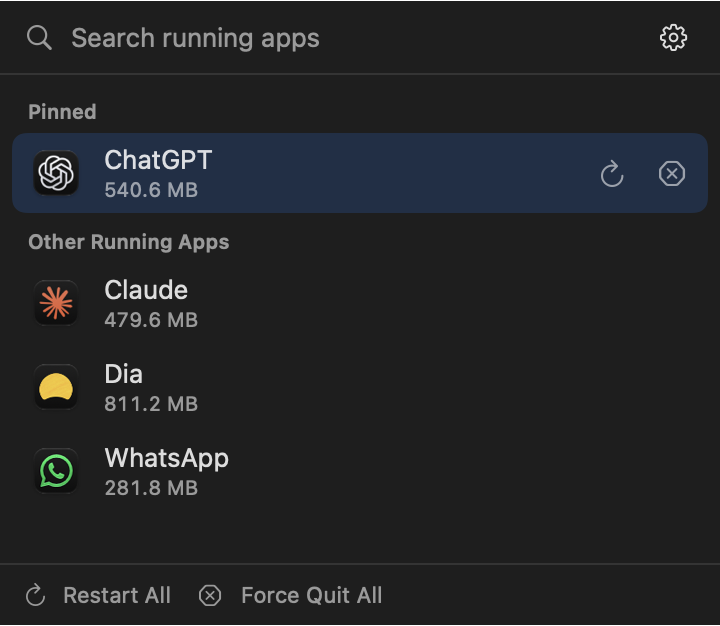
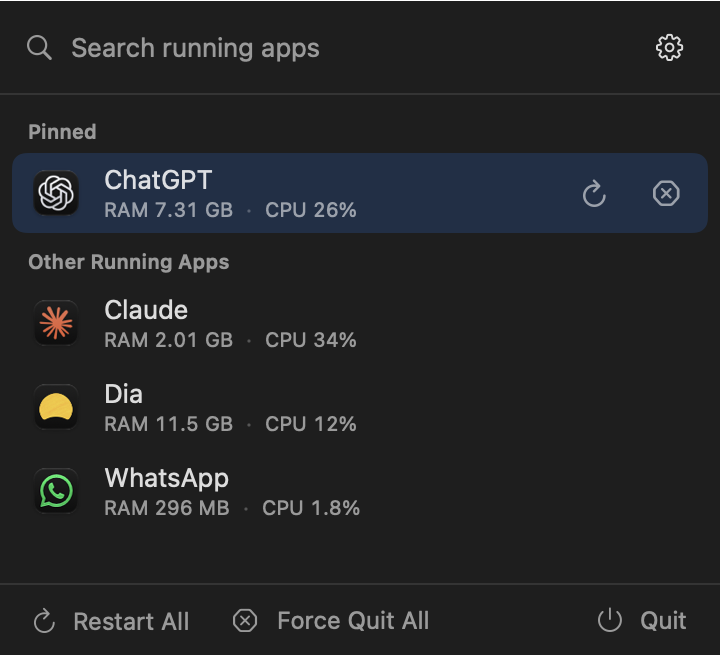
2.1: clearer RAM/CPU, hover effects, Quit button, stable signing
- Rows show 'RAM x · CPU y%' (Activity Monitor's measures), counting the
  app's in-bundle helper processes but not tools it launches
- Hover and press effects on all icon and footer buttons
- Quit button at the right end of the panel footer
- Accessibility permission rechecks live; banner can open Settings or
  relaunch the app
- Sign with a stable self-signed identity so the Accessibility grant
  survives updates; sign and verify off the Desktop, zip from a clean copy

diff --git a/Views.swift b/Views.swift
@@ -33,8 +33,7 @@ struct PanelView: View {
                 .accessibilityLabel("Search running apps")
             if !model.query.isEmpty {
                 Button { model.query = "" } label: { Image(systemName: "xmark.circle.fill") }
-                    .buttonStyle(.borderless)
-                    .foregroundStyle(.secondary)
+                    .buttonStyle(HoverIconStyle(tint: .primary))
                     .help("Clear search")
                     .accessibilityLabel("Clear search")
             }
@@ -50,6 +49,7 @@ struct PanelView: View {
             .menuStyle(.borderlessButton)
             .menuIndicator(.hidden)
             .fixedSize()
+            .modifier(HoverCircle(tint: .primary))
             .help("Settings, updates and more")
             .accessibilityLabel("More options")
         }
@@ -94,18 +94,22 @@ struct PanelView: View {
     }
 
     private func footer(_ items: [AppItem]) -> some View {
-        HStack(spacing: 12) {
+        HStack(spacing: 4) {
             Button { model.perform(.restart, on: items) } label: { Label("Restart All", systemImage: "arrow.clockwise") }
+                .buttonStyle(HoverPillStyle(tint: .accentColor))
                 .help("Restart every app in the list")
+                .disabled(items.isEmpty)
             Button { model.perform(.forceQuit, on: items) } label: { Label("Force Quit All", systemImage: "xmark.octagon") }
+                .buttonStyle(HoverPillStyle(tint: .red))
                 .help("Force quit every app in the list")
+                .disabled(items.isEmpty)
             Spacer()
+            Button { NSApp.terminate(nil) } label: { Label("Quit", systemImage: "power") }
+                .buttonStyle(HoverPillStyle(tint: .primary))
+                .help("Quit AppRestarter (⌘Q)")
         }
-        .buttonStyle(.borderless)
-        .controlSize(.small)
-        .disabled(items.isEmpty)
-        .padding(.horizontal, 12)
-        .padding(.vertical, 8)
+        .padding(.horizontal, 8)
+        .padding(.vertical, 6)
     }
 }
 
@@ -147,12 +151,7 @@ private struct AppRow: View {
                             .help("Restarts automatically when frozen")
                     }
                 }
-                if model.showMemory, item.memory > 0 {
-                    Text(formatBytes(item.memory))
-                        .font(.caption)
-                        .foregroundStyle(.secondary)
-                        .monospacedDigit()
-                }
+                if model.showMemory, item.memory > 0 { usage }
             }
             Spacer(minLength: 4)
             if item.frozen {
@@ -166,8 +165,8 @@ private struct AppRow: View {
             if busy {
                 ProgressView().controlSize(.small)
             } else if hovering || selected {
-                RowButton(symbol: "arrow.clockwise", label: "Restart") { model.perform(.restart, on: [item]) }
-                RowButton(symbol: "xmark.octagon", label: "Force Quit") { model.perform(.forceQuit, on: [item]) }
+                RowButton(symbol: "arrow.clockwise", label: "Restart", tint: .accentColor) { model.perform(.restart, on: [item]) }
+                RowButton(symbol: "xmark.octagon", label: "Force Quit", tint: .red) { model.perform(.forceQuit, on: [item]) }
             } else if isPinned {
                 Image(systemName: "pin.fill").font(.caption).foregroundStyle(.secondary)
             }
@@ -207,9 +206,27 @@ private struct AppRow: View {
         .accessibilityAction(named: "Exclude from List") { model.excluded.insert(item.bundleID) }
     }
 
+    /// "RAM 515 MB · CPU 2.3%". CPU turns orange above one full core.
+    private var usage: some View {
+        HStack(spacing: 6) {
+            Text("RAM \(formatBytes(item.memory))")
+            if let cpu = item.cpu {
+                Text("·").foregroundStyle(.tertiary)
+                Text("CPU \(formatCPU(cpu))").foregroundStyle(cpu >= 100 ? Color.orange : Color.secondary)
+            }
+        }
+        .font(.caption)
+        .foregroundStyle(.secondary)
+        .monospacedDigit()
+        .help("RAM: memory used by the app and its helper processes.\nCPU: processor use, where 100% is one full core (same as Activity Monitor).")
+    }
+
     private var accessibilityText: String {
         var parts = [item.name]
-        if model.showMemory, item.memory > 0 { parts.append(formatBytes(item.memory)) }
+        if model.showMemory, item.memory > 0 {
+            parts.append("RAM \(formatBytes(item.memory))")
+            if let cpu = item.cpu { parts.append("CPU \(formatCPU(cpu))") }
+        }
         if item.frozen { parts.append("Not responding") }
         if isPinned { parts.append("Pinned") }
         if busy { parts.append("Working") }
@@ -220,12 +237,74 @@ private struct AppRow: View {
 private struct RowButton: View {
     let symbol: String
     let label: String
+    let tint: Color
     let action: () -> Void
     var body: some View {
-        Button(action: action) { Image(systemName: symbol).frame(width: 20, height: 20) }
-            .buttonStyle(.borderless)
+        Button(action: action) { Image(systemName: symbol) }
+            .buttonStyle(HoverIconStyle(tint: tint))
             .help(label)
             .accessibilityLabel(label)
+    }
+}
+
+// MARK: - Hover styles
+
+/// Round icon button: grey at rest; tinted icon on a soft circle when hovered; shrinks when pressed.
+struct HoverIconStyle: ButtonStyle {
+    var tint: Color
+    func makeBody(configuration: Configuration) -> some View {
+        configuration.label
+            .font(.system(size: 13, weight: .medium))
+            .modifier(HoverCircle(tint: tint, pressed: configuration.isPressed))
+    }
+}
+
+struct HoverCircle: ViewModifier {
+    var tint: Color
+    var pressed = false
+    @State private var hovering = false
+    @Environment(\.isEnabled) private var enabled
+
+    func body(content: Content) -> some View {
+        let active = hovering && enabled
+        content
+            .foregroundStyle(active ? tint : Color.secondary)
+            .frame(width: 26, height: 26)
+            .background(Circle().fill(tint.opacity(active ? (pressed ? 0.28 : 0.14) : 0)))
+            .scaleEffect(pressed ? 0.88 : 1)
+            .contentShape(Circle())
+            .onHover { hovering = $0 }
+            .animation(.easeOut(duration: 0.12), value: active)
+            .animation(.easeOut(duration: 0.08), value: pressed)
+    }
+}
+
+/// Text + icon footer button: tinted capsule on hover.
+struct HoverPillStyle: ButtonStyle {
+    var tint: Color
+    func makeBody(configuration: Configuration) -> some View {
+        Pill(configuration: configuration, tint: tint)
+    }
+
+    private struct Pill: View {
+        let configuration: Configuration
+        let tint: Color
+        @State private var hovering = false
+        @Environment(\.isEnabled) private var enabled
+
+        var body: some View {
+            let active = hovering && enabled
+            configuration.label
+                .font(.callout)
+                .foregroundStyle(active ? tint : enabled ? Color.secondary : Color.secondary.opacity(0.5))
+                .padding(.horizontal, 8)
+                .padding(.vertical, 4)
+                .background(Capsule().fill(tint.opacity(active ? (configuration.isPressed ? 0.25 : 0.12) : 0)))
+                .scaleEffect(configuration.isPressed ? 0.96 : 1)
+                .contentShape(Capsule())
+                .onHover { hovering = $0 }
+                .animation(.easeOut(duration: 0.12), value: active)
+        }
     }
 }
 
@@ -272,7 +351,7 @@ struct GeneralTab: View {
             Section {
                 Toggle("Launch AppRestarter at login", isOn: $model.launchAtLogin)
                 Toggle("Ask before restarting or force quitting an app", isOn: $model.confirmActions)
-                Toggle("Show memory use", isOn: $model.showMemory)
+                Toggle("Show RAM and CPU use", isOn: $model.showMemory)
                 Toggle("Notify after each restart or force quit", isOn: $model.notify)
                 LabeledContent("Open panel shortcut") { HotkeyRecorder(combo: $model.hotkey) }
             } footer: {
@@ -384,7 +463,14 @@ struct AutoRestartTab: View {
                             .font(.callout)
                             .foregroundStyle(.secondary)
                             .fixedSize(horizontal: false, vertical: true)
-                        Button("Grant Access…") { model.requestAccessibility() }
+                        Text("Already switched on? Turn AppRestarter off and on again in that list, or restart AppRestarter.")
+                            .font(.caption)
+                            .foregroundStyle(.secondary)
+                            .fixedSize(horizontal: false, vertical: true)
+                        HStack {
+                            Button("Open Accessibility Settings…") { model.requestAccessibility() }
+                            Button("Restart AppRestarter") { relaunchSelf() }
+                        }
                     }
                 }
                 .padding(10)

diff --git a/Model.swift b/Model.swift
@@ -4,7 +4,8 @@ import UserNotifications
 
 struct AppItem: Identifiable {
     let app: NSRunningApplication
-    var memory: UInt64 = 0
+    var memory: UInt64 = 0   // RAM, bytes: app + its helper processes
+    var cpu: Double?         // % of one core, like Activity Monitor; nil until the second sample
     var frozen = false
 
     var id: pid_t { app.processIdentifier }
@@ -72,6 +73,7 @@ final class AppModel: ObservableObject {
     private var timer: Timer?
     private var polling = false
     private var frozenSince: [pid_t: Date] = [:]
+    private var lastCPU: [pid_t: (cpuNanos: UInt64, at: UInt64)] = [:]
 
     private init() {
         excluded = Set(defaults.stringArray(forKey: "excluded") ?? [])
@@ -95,6 +97,18 @@ final class AppModel: ObservableObject {
         }
         // Memory + frozen state + watchdog. ponytail: fixed 3 s poll; event-driven would need private APIs.
         timer = Timer.scheduledTimer(withTimeInterval: 3, repeats: true) { [weak self] _ in self?.pollStatus() }
+        // Re-check Accessibility the moment the user flips it in System Settings (macOS posts this
+        // when the trusted list changes; the value lags slightly), and whenever we come forward.
+        DistributedNotificationCenter.default().addObserver(
+            forName: NSNotification.Name("com.apple.accessibility.api"), object: nil, queue: .main
+        ) { [weak self] _ in
+            for delay in [0.3, 1.0, 2.5] {
+                DispatchQueue.main.asyncAfter(deadline: .now() + delay) { self?.refreshAccessibility() }
+            }
+        }
+        NotificationCenter.default.addObserver(
+            forName: NSApplication.didBecomeActiveNotification, object: nil, queue: .main
+        ) { [weak self] _ in self?.refreshAccessibility() }
         if notify { requestNotificationPermission() }
     }
 
@@ -133,20 +147,31 @@ final class AppModel: ObservableObject {
     private func pollStatus() {
         guard !polling else { return }
         polling = true
-        let pids = all.map(\.id)
+        let targets = all.map { ($0.id, $0.app.bundleURL?.path ?? "/nonexistent") }
+        let pids = targets.map(\.0)
         let trusted = AXIsProcessTrusted()
         DispatchQueue.global(qos: .utility).async {
-            let status = Dictionary(uniqueKeysWithValues: pids.map { pid in
-                (pid, (memory: memoryFootprint(pid), frozen: trusted && isUnresponsive(pid)))
+            let status = Dictionary(uniqueKeysWithValues: targets.map { pid, bundle in
+                (pid, (usage: treeUsage(pid, bundlePath: bundle), frozen: trusted && isUnresponsive(pid)))
             })
+            let now = monotonicNanos()
             DispatchQueue.main.async {
                 self.polling = false
                 self.accessibilityTrusted = trusted
                 self.all = self.all.map { item in
                     var item = item
-                    if let s = status[item.id] { item.memory = s.memory; item.frozen = s.frozen }
+                    guard let s = status[item.id] else { return item }
+                    item.memory = s.usage.memory
+                    item.frozen = s.frozen
+                    if let last = self.lastCPU[item.id], now > last.at {
+                        // ponytail: a helper exiting between samples drops its time; clamp at 0
+                        let used = s.usage.cpuNanos > last.cpuNanos ? s.usage.cpuNanos - last.cpuNanos : 0
+                        item.cpu = Double(used) / Double(now - last.at) * 100
+                    }
+                    self.lastCPU[item.id] = (s.usage.cpuNanos, now)
                     return item
                 }
+                self.lastCPU = self.lastCPU.filter { pid, _ in pids.contains(pid) }
                 self.runWatchdog()
             }
         }
@@ -253,9 +278,19 @@ final class AppModel: ObservableObject {
 
     // MARK: Permissions
 
+    /// Adds AppRestarter to the Accessibility list (first time) and opens that pane.
     func requestAccessibility() {
         let options = [kAXTrustedCheckOptionPrompt.takeUnretainedValue() as String: true] as CFDictionary
         accessibilityTrusted = AXIsProcessTrustedWithOptions(options)
+        if !accessibilityTrusted,
+           let url = URL(string: "x-apple.systempreferences:com.apple.preference.security?Privacy_Accessibility") {
+            NSWorkspace.shared.open(url)
+        }
+    }
+
+    func refreshAccessibility() {
+        let trusted = AXIsProcessTrusted()
+        if trusted != accessibilityTrusted { accessibilityTrusted = trusted }
     }
 
     private func requestNotificationPermission() {
@@ -293,6 +328,15 @@ func relaunch(_ url: URL) -> Bool {
     return ok
 }
 
+/// Quits and reopens AppRestarter (picks up a newly granted permission).
+func relaunchSelf() {
+    let task = Process()
+    task.executableURL = URL(fileURLWithPath: "/bin/sh")
+    task.arguments = ["-c", "sleep 0.5; /usr/bin/open \"$0\"", Bundle.main.bundleURL.path]
+    try? task.run()
+    NSApp.terminate(nil)
+}
+
 func isAlive(_ pid: pid_t) -> Bool {
     kill(pid, 0) == 0 || errno == EPERM
 }
@@ -313,15 +357,58 @@ func isUnresponsive(_ pid: pid_t) -> Bool {
     return AXUIElementCopyAttributeValue(element, kAXRoleAttribute as CFString, &value) == .cannotComplete
 }
 
-/// Physical memory of the main process. ponytail: helper processes (Electron, browsers) not summed.
-func memoryFootprint(_ pid: pid_t) -> UInt64 {
-    var info = rusage_info_v4()
-    let result = withUnsafeMutablePointer(to: &info) {
-        $0.withMemoryRebound(to: rusage_info_t?.self, capacity: 1) { proc_pid_rusage(pid, RUSAGE_INFO_V4, $0) }
+/// RAM (same "Memory" figure as Activity Monitor) and total CPU time for an app plus the
+/// helper processes it spawned from inside its own bundle (browser tabs, Electron helpers).
+/// Tools it merely launches (shells, node servers) are skipped. ponytail: XPC services
+/// launched by launchd aren't children, so they're not counted.
+func treeUsage(_ root: pid_t, bundlePath: String) -> (memory: UInt64, cpuNanos: UInt64) {
+    var memory: UInt64 = 0, ticks: UInt64 = 0
+    var queue = [root], seen = Set<pid_t>()
+    let prefix = bundlePath.hasSuffix("/") ? bundlePath : bundlePath + "/"
+    while let pid = queue.popLast() {
+        guard seen.insert(pid).inserted else { continue }
+        queue += childPIDs(pid)
+        guard pid == root || executablePath(pid)?.hasPrefix(prefix) == true else { continue }
+        var info = rusage_info_v4()
+        let ok = withUnsafeMutablePointer(to: &info) {
+            $0.withMemoryRebound(to: rusage_info_t?.self, capacity: 1) { proc_pid_rusage(pid, RUSAGE_INFO_V4, $0) }
+        } == 0
+        if ok {
+            memory += info.ri_phys_footprint
+            ticks += info.ri_user_time + info.ri_system_time
+        }
     }
-    return result == 0 ? info.ri_phys_footprint : 0
+    return (memory, ticks * UInt64(timebase.numer) / UInt64(timebase.denom))
+}
+
+private func executablePath(_ pid: pid_t) -> String? {
+    var buffer = [CChar](repeating: 0, count: Int(MAXPATHLEN) * 4)
+    return proc_pidpath(pid, &buffer, UInt32(buffer.count)) > 0 ? String(cString: buffer) : nil
+}
+
+private func childPIDs(_ pid: pid_t) -> [pid_t] {
+    let count = proc_listchildpids(pid, nil, 0)
+    guard count > 0 else { return [] }
+    var pids = [pid_t](repeating: 0, count: Int(count) + 16)
+    let found = proc_listchildpids(pid, &pids, Int32(pids.count * MemoryLayout<pid_t>.size))
+    return Array(pids.prefix(max(0, Int(found)))).filter { $0 > 0 }
+}
+
+/// rusage CPU times are mach ticks (not ns) on Apple silicon.
+private let timebase: mach_timebase_info_data_t = {
+    var info = mach_timebase_info_data_t()
+    mach_timebase_info(&info)
+    return info
+}()
+
+func monotonicNanos() -> UInt64 {
+    clock_gettime_nsec_np(CLOCK_UPTIME_RAW)
 }
 
 func formatBytes(_ bytes: UInt64) -> String {
     ByteCountFormatter.string(fromByteCount: Int64(bytes), countStyle: .memory)
+}
+
+func formatCPU(_ percent: Double) -> String {
+    percent < 10 ? String(format: "%.1f%%", percent) : String(format: "%.0f%%", percent)
 }

diff --git a/Package.swift b/Package.swift
@@ -13,7 +13,7 @@ let package = Package(
             dependencies: [.product(name: "Sparkle", package: "Sparkle")],
             path: ".",
             exclude: ["AppRestarter.app", "releases", "AppIcon.icns", "Info.plist", "make-icon.swift",
-                      "build.sh", "release.sh", "appcast.xml", "selftest"],
+                      "build.sh", "release.sh", "appcast.xml", "selftest", "README.md", "screenshots"],
             sources: ["AppRestarter.swift", "Model.swift", "Views.swift", "Hotkey.swift"],
             linkerSettings: [.unsafeFlags(["-Xlinker", "-rpath", "-Xlinker", "@executable_path/../Frameworks"])]
         ),
